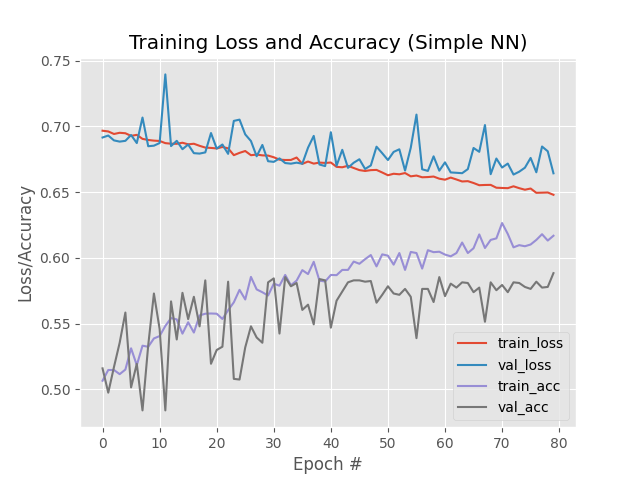
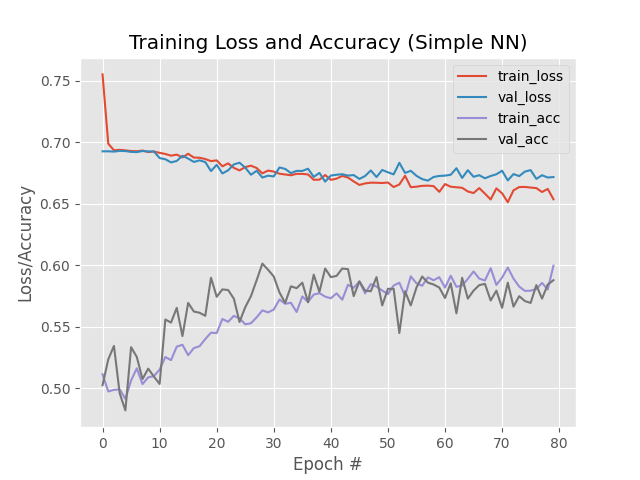
Tried achieving higher accuracy

diff --git a/train_simple_nn.py b/train_simple_nn.py
@@ -35,11 +35,13 @@ data = []
 labels = []
 
 imagePaths = sorted(list(paths.list_images(args["dataset"])))
-random.seed(42)
+random.seed(123)
 random.shuffle(imagePaths)
 
 for imagePath in imagePaths:
     image = cv2.imread(imagePath)
+
+    image = cv2.cvtColor(image, cv2.COLOR_BGR2GRAY)
     image = cv2.resize(image, (32, 32)).flatten()
     data.append(image)
     label = imagePath.split(os.path.sep)[-2]
@@ -49,7 +51,7 @@ data = np.array(data, dtype="float") / 255.0
 label = np.array(labels)
 
 (trainX, testX, trainY, testY) = train_test_split(
-    data, labels, test_size=0.25, random_state=42
+    data, labels, test_size=0.25, random_state=123
 )
 
 lb = LabelBinarizer()
@@ -59,19 +61,24 @@ testY = lb.transform(testY)
 print(lb.classes_)
 
 model = Sequential()
-model.add(layers.Dense(1024, input_shape=(3072,), activation="sigmoid"))
-model.add(layers.Dense(512, activation="sigmoid"))
 
+model.add(layers.Dense(512, input_shape=(1024,), activation="relu"))
+model.add(layers.Dropout(0.5))
+model.add(layers.Dense(256, activation="relu"))
+model.add(layers.Dropout(0.5))
+model.add(layers.Dense(128, activation="relu"))
+model.add(layers.Dropout(0.5))
+model.add(layers.Dense(64, activation="relu"))
+model.add(layers.Dropout(0.5))
 model.add(layers.Dense(1, activation="sigmoid"))
-
 # We use this one in case we need to clasify more than one thing
 # model.add(layers.Dense(len(lb.classes_), activation="softmax"))
 
-INIT_LR = 0.01
+INIT_LR = 0.001
 EPOCHS = 80
 
 print("[INFO] training network...")
-opt = optimizers.SGD(learning_rate=INIT_LR)
+opt = optimizers.Adam(learning_rate=INIT_LR)
 
 # in case we need to classify more than one thing we swap binary_crossentropy with categorical_crossentropy
 model.compile(loss="binary_crossentropy", optimizer=opt, metrics=["accuracy"])
@@ -93,7 +100,6 @@ print(
         zero_division=1,
     )
 )
-print("crap")
 # plot the training loss and accuracy
 N = np.arange(0, EPOCHS)
 plt.style.use("ggplot")
